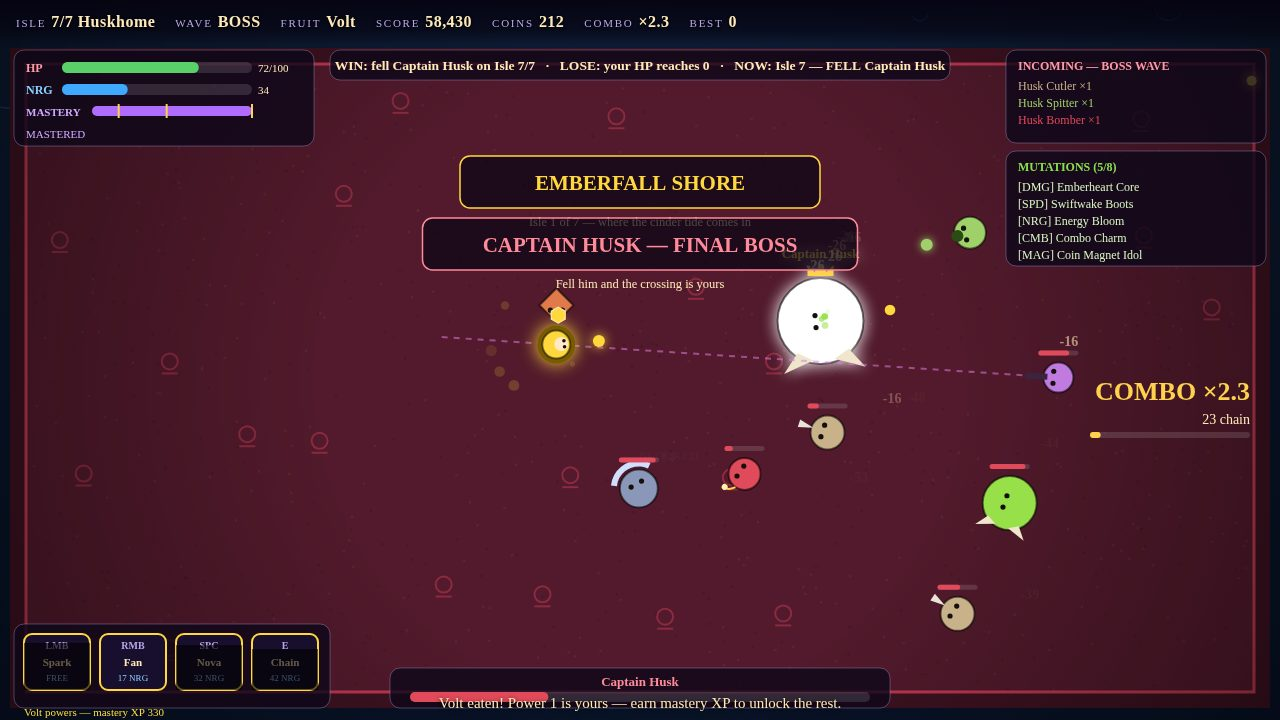
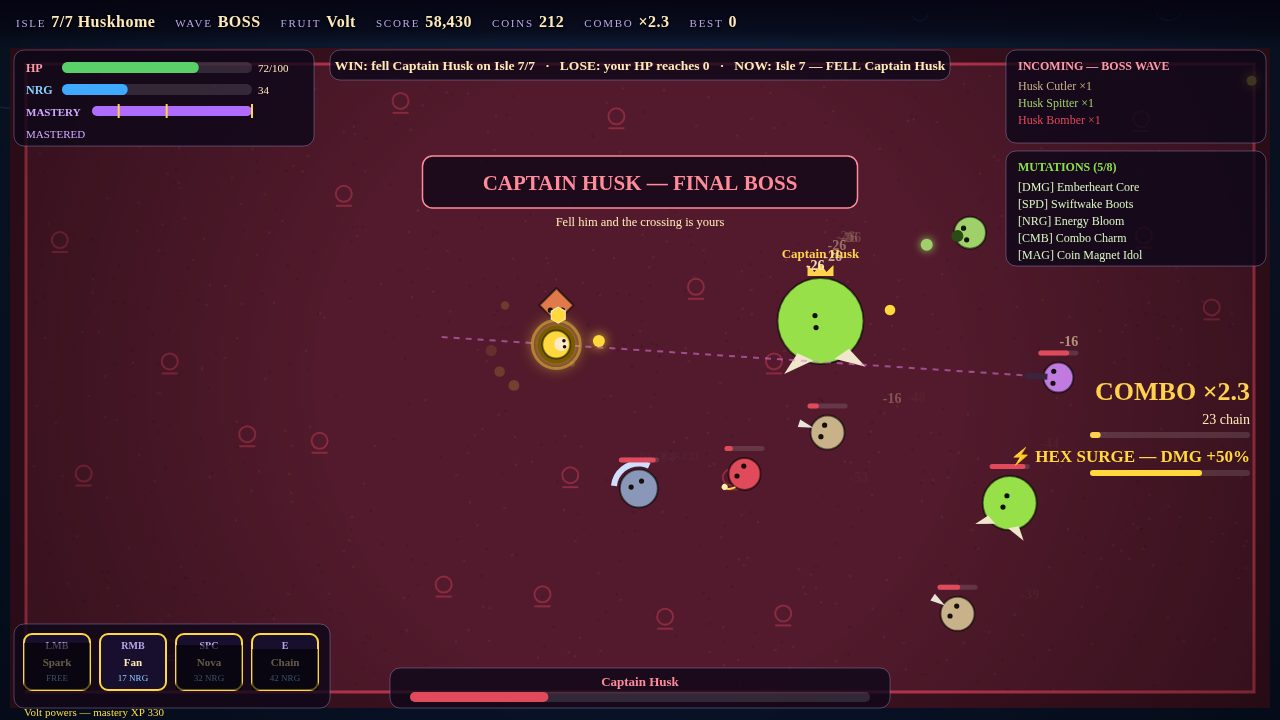
screenshots regenerated (title fit fix + Hex Surge in boss frame); README with 3 linked badges

diff --git a/README.md b/README.md
@@ -1,0 +1,45 @@
+<!-- SPDX-License-Identifier: MIT -->
+# HEXFRUIT ARENA
+
+**HEXFRUIT ARENA — eat a hexfruit, master its 4 powers: 6 fruits, 7 isles, 8 corsairs, boss Captain Husk**
+
+![Boss climax — Captain Husk on Huskhome, full HUD](https://raw.githubusercontent.com/binasalama12/makefun-best-game-01-w4-hexfruit-arena/main/screenshots/1-boss.jpg)
+![Mutation draft between isles](https://raw.githubusercontent.com/binasalama12/makefun-best-game-01-w4-hexfruit-arena/main/screenshots/2-draft.jpg)
+![Title — how-to, hexfruit cards, corsair bestiary, difficulties](https://raw.githubusercontent.com/binasalama12/makefun-best-game-01-w4-hexfruit-arena/main/screenshots/3-title.jpg)
+
+A top-down 2D arena brawler in a single HTML page (canvas + ES modules, no
+build step, no network). Eat **one of 6 hexfruits** — Ember, Gale, Tide,
+Thorn, Volt, Umbra — each with a **unique 4-move power set**, then brawl
+waves of **Husk corsairs** across **7 isles**. Kills earn mastery XP that
+unlocks powers 2, 3 and 4 mid-run; every isle ends in a boss; between isles
+you **draft 1 of 3 mutations** (8 in the pool, all with real effects); the
+crossing ends on Huskhome against **Captain Husk**. Three difficulties —
+Calm Seas, Storm, Tempest — and a full run scores in the tens of thousands.
+
+## How to play
+
+- **Move** WASD / arrows · **Aim** mouse
+- **Powers:** LMB = 1 · RMB = 2 · SPACE = 3 · E = 4 (or number keys 1–4)
+- Clear 3 waves + the isle boss → draft a mutation → sail to the next isle
+- **WIN:** fell Captain Husk on Isle 7 · **LOSE:** your HP reaches 0
+
+The 8 corsair types all behave differently: Cutlers chase, Spitters keep
+range, Dashers lunge, Splitters split into Mites, Shielders block frontal
+shots, Bombers rush and burst, Snipers telegraph charged shots, Brutes
+slam the ground in rings.
+
+## Run it
+
+```sh
+node serve.ts          # http://localhost:8080
+```
+
+Deterministic screenshot scenes (used for the dossier):
+`?shot=boss&seed=11`, `?shot=draft&seed=11`, `?shot=title&seed=11`,
+`?shot=end&seed=11`.
+
+Hand-in program (make.fun): `MAKEFUN_OUTPUT_DIR=out node main.ts` writes
+`dossier.json` plus `game/` and `screenshots/` into the output directory.
+
+All fruits, powers, corsairs and isles are invented for this game.
+Licensed under the MIT License — see [LICENSE](LICENSE).
